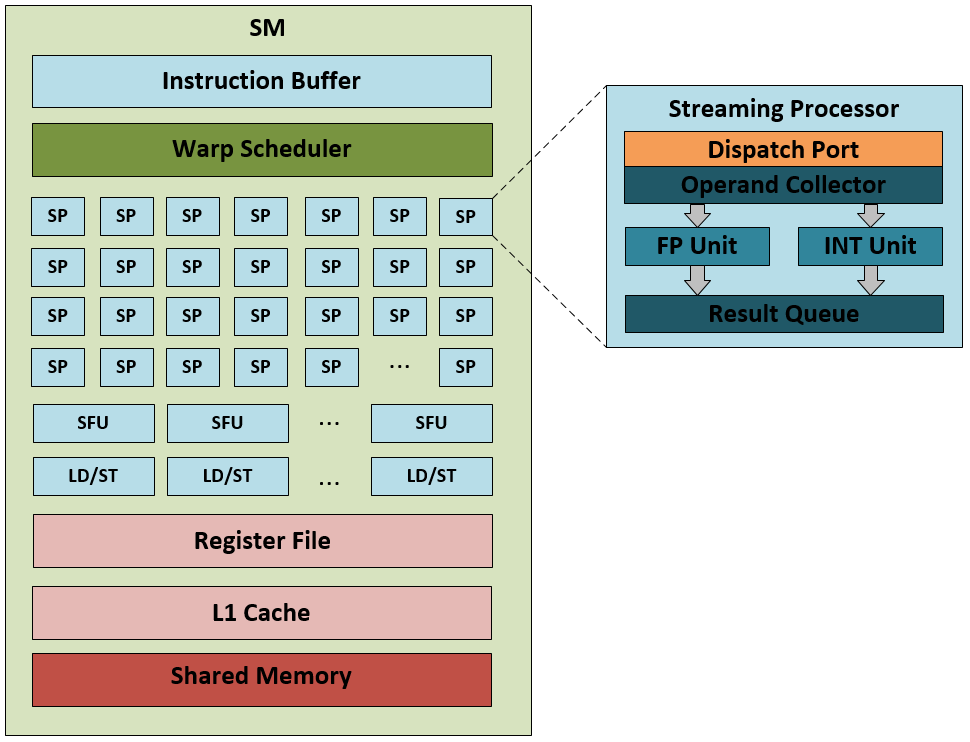
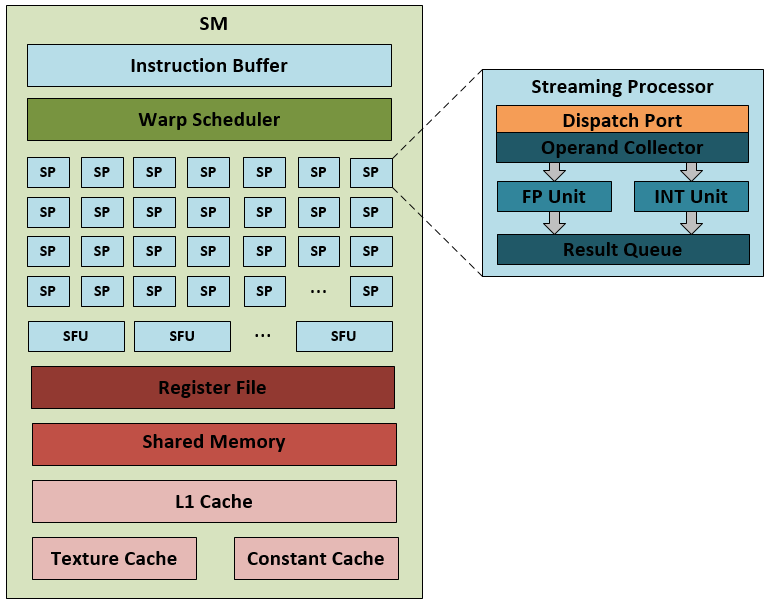
Almost finished SM + added new figures

diff --git a/doc/content/hw-streaming-multiprocessors.tex b/doc/content/hw-streaming-multiprocessors.tex
@@ -1,26 +1,68 @@
 The SMs are the computational working blocks of the GPU.
-It handles all tasks submitted to the GPU, which is executed in its sub blocks.
-\Cref{fig:hw-sm} presents the hardware architecture of a basic SM, containing:
+It handles all tasks submitted to the GPU, which is executed in its sub components.
+\Cref{fig:hw-sm} presents the hardware architecture of a basic SM, containing the key components which makes up the SM.
+However keep in mind that this is not the complete content of all SMs, as the ones chosen presented here, is selected to provide an overview.
 
-\begin{itemize}
-	\item Instruction Buffer
-	\item One or more Warp Scheduler(s)
-	\item Warp Scheduler
-	\item Streaming Processor
-	\item Special Function Units
-	\item Register File
-	\item L1 Cache
-	\item Shared Memory
-\end{itemize}
-
-%SFU
-Special Function Units (SFUs) are a approximation units, which computes fast single-precision approximations of transcendental functions such as logarithm, exponential, sine and cosine \cite{Wilt2013}.
-Each of the SFUs also contains four floating-point multipliers that can offer extra throughput in addition to the SPs\cite{Li2016}.
-
+%TODO Update quality
 \begin{figure}[H]
 	\centering
 	\fbox{
-		\includegraphics[width=1\textwidth]{figs/hw/hw-sm} }
+		\includegraphics[width=0.8\textwidth]{figs/hw/hw-sm} }
 	\caption{TBD}
 	\label{fig:hw-sm}
 \end{figure}
+
+The key components and their functionality of SMs are:
+
+\begin{itemize}
+	\item \textbf{Streaming Processor (SM) -}  The most essential component of the SM is the SP, which is the basic computing element of the GPU.
+	\Cref{sec-hw-streaming-processors} describes SP in detail, this section will cover its purpose within the SM.
+	
+	\item \textbf{Special Function Units (SFU) -} SFUs are a approximation units, which computes fast single-precision approximations of transcendental functions such as logarithm, exponential, sine and cosine \cite{Wilt2013}.
+	Each of the SFUs also contains four floating-point multipliers that can offer extra throughput in addition to the SPs \cite{Li2016}.
+	
+	\item \textbf{Register File -} The Register File can be described as a chuck of memory used by the threads running on the SPs within a single SM. 
+	The Register File runs at the same speed as the SP units, providing a minimum wait time on the register memory. 
+	Instead of having a separate register dedicated to a single SP core, all SPs of a SM accesses the Register File, where registers are installed to be used by the threads of a SM.
+	The data stored in the Register File is only visible to the thread which wrote it, and is deleted when the lifetime of the thread ends.
+	Further information regarding the Register File can be found in \cref{sec-hw-memory-model}.
+	
+	\item \textbf{Shared Memory -} The Shared Memory is used to share data between threads running in the same block within the SM.
+	Where the data stored in the Register File is only accessible by a single thread, the data stored in the Shared Memory can be accessed by multiple threads, which is further described in \cref{sec-hw-memory-model}.
+		
+	\item \textbf{Texture Cache -} The Texture Cache is a R/O used to access texture memory, allocated in the Global Memory.
+	Texture memory is useful for data containing interpolation, which for example could be 2D or 3D lookup tables \cite{Cook2008}.
+	
+	\item \textbf{Constant Cache -} Just as the Texture Cache, the Constant Cache is R/O.
+	Constant Cache is used for commonly used data, which is stored in the constant memory instead of global memory.
+	This is done for the purpose of increasing performance in comparison to long latencies in conjunction with global memory accesses, which is further described in \cref{sec-hw-memory-model}.
+	
+	
+	\item \textbf{L1 Cache -} 
+	%First, let’s pick up on theintroduction of the L1 cache and what this means. An L1 (level one) cache is a cache present on a device and is the fastest cache type available.
+	%The introduction of a cache makes it much easier for many programmers to write programs that work well on GPU hardware. It also allows for applications that do not follow a known memory pattern at compile time. However, to exploit the cache, the application either needs to have a sequential memory pattern or have at least some data reuse.
+		
+	\item  \textbf{Instruction Buffer \& Warp Scheduler -} The Instruction Buffer and Warp Scheduler are used to coordinate instructions and dispatch them to SPs.
+	\Cref{sec-hw-warps} describes how these work in depth.
+		
+\end{itemize}
+
+\Cref{fig:hw-sm-inside} presents an overview of how the different computational components of the SM is connected to the different memory components.
+%TODO Tilføj mere generelt info om SM
+
+
+%TODO Update quality
+\begin{figure}[H]
+	\centering
+	\fbox{
+		\includegraphics[width=0.6\textwidth]{figs/hw/hw-sm-inside} }
+	\caption{TBD}
+	\label{fig:hw-sm-inside}
+\end{figure}
+
+
+
+
+
+
+

diff --git a/doc/content/hw-memory-model.tex b/doc/content/hw-memory-model.tex
@@ -1,11 +1,19 @@
 %https://www.slideshare.net/maheshkha/cuda-tutorial (Memory space)
 % https://www.slideshare.net/Hanibei/cuda-introduction - Kernel memory access
 
+
+
+% https://www.microway.com/hpc-tech-tips/gpu-memory-types-performance-comparison/
+
+%Husk at tjekke Shane Cook Hardware architecture afsnittet her.
+
 %TODO Understanding NVIDIA GPGPU Hardware
+
+%TODO Update to newest ( and consider all cahces)
 \begin{figure}[H]
 	\centering
 	\fbox{
-		\includegraphics[width=1\textwidth]{figs/hw/hw-memory-schematic}}
+		\includegraphics[width=0.6\textwidth]{figs/hw/hw-memory-schematic}}
 	\caption{GPU memory schematic}
 	\label{fig:hw-memory-schematic}
 \end{figure}
@@ -13,7 +21,7 @@
 \begin{figure}[H]
 	\centering
 	\fbox{
-		\includegraphics[width=1\textwidth]{figs/hw/hw-memory-model}}
+		\includegraphics[width=0.8\textwidth]{figs/hw/hw-memory-model}}
 	\caption{GPU memory model}
 	\label{fig:hw-memory-model}
 \end{figure}

diff --git a/doc/content/hw-gpu-architecture.tex b/doc/content/hw-gpu-architecture.tex
@@ -12,6 +12,7 @@ The GPU hardware architecture consists of three main block categories:
 On a high level, the GPU can be described as an array of \textit{N} SMs, each consisting of \textit{M} cores (SPs) as illustrated on \cref{fig:hw-gpu}. 
 The number of SMs contained in GPUs varies a lot, from small GPUs only containing a single SM, to the newest Nvidia architecture \textit{Tesla V100} containing 84 SMs \cite{Nvidia2017}.
 The number of SMs, and thereby the number of SPs, contained in the GPU enables more tasks to be processed at the same time or a single task to be processed faster if enough parallelism is implemented for this given task.
+Therefore, the future evolution of GPUs is focused on increasing the number of SMs and SPs.
 %TODO Tilføj evt. mere "general information" om GPU.
 
 

diff --git a/doc/content/hw-pci-express.tex b/doc/content/hw-pci-express.tex
@@ -10,7 +10,7 @@ Lanes provide a guaranteed division of the bandwidth between all devices so that
 \begin{figure}[ht]
 	\centering
 	\fbox{
-		\includegraphics[width=0.8\textwidth]{figs/hw/hw-pci-express}}
+		\includegraphics[width=0.6\textwidth]{figs/hw/hw-pci-express}}
 	\caption{PCI Express link}
 	\label{fig:hw-pci-express}
 \end{figure}

diff --git a/doc/content/hw-cpu-gpu-architecture.tex b/doc/content/hw-cpu-gpu-architecture.tex
@@ -6,7 +6,7 @@ As well configurations containing a multiple GPUs for more demanding computation
 \begin{figure}[ht]
 	\centering
 	\fbox{
-		\includegraphics[width=0.8\textwidth]{figs/hw/hw-cpu-gpu}}
+		\includegraphics[width=0.6\textwidth]{figs/hw/hw-cpu-gpu}}
 	\caption{CPU/GPU architecture}
 	\label{fig:hw-cpu-gpu}
 \end{figure}
